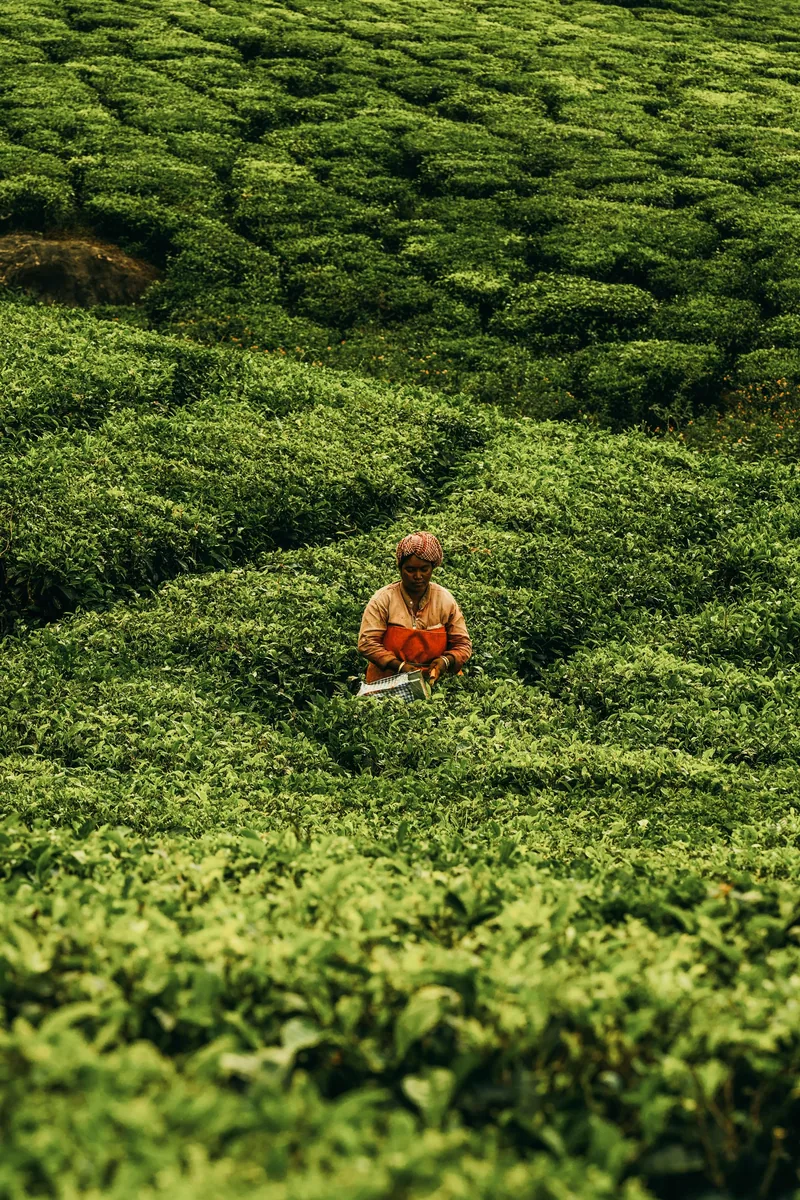
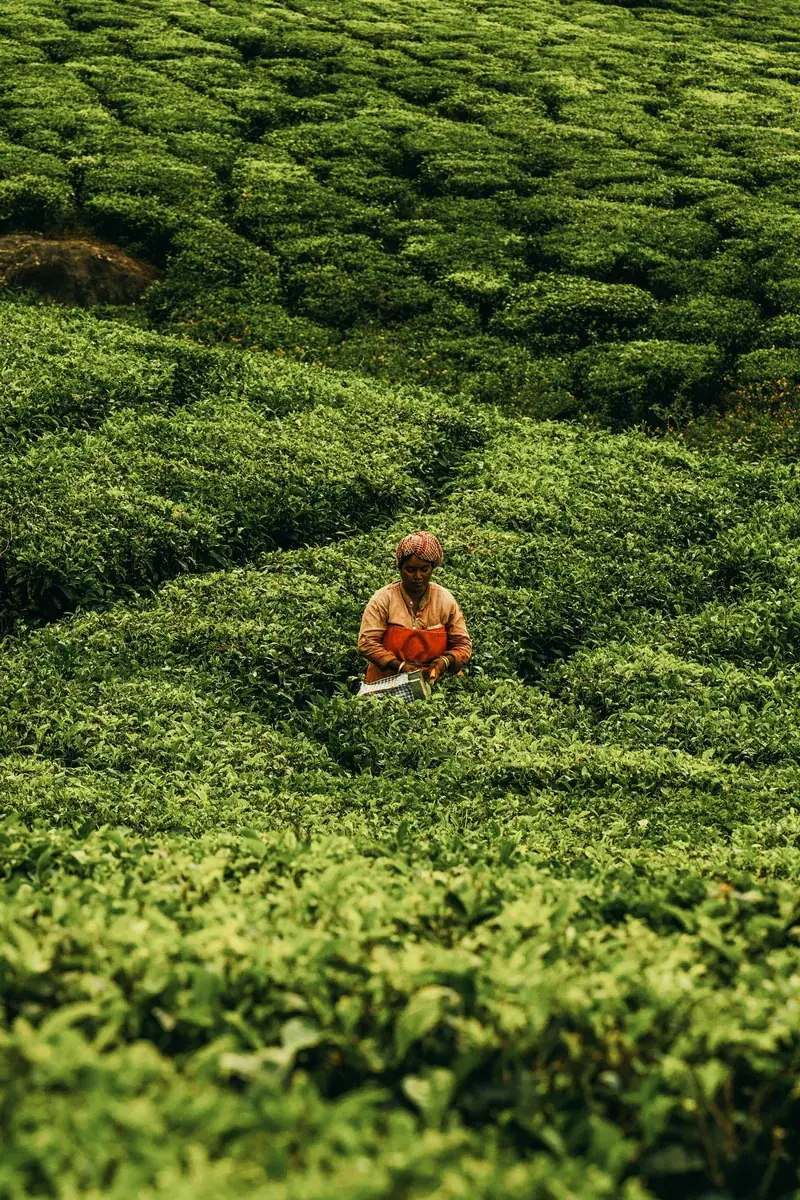
Nimbus: env-configurable warehouse/parcel/flat charge, saved shipment history, failed-delivery alert, delivery date at booking; claims match the pouch (no organic/global), Instagram handle from pouch; remove unused images, compress big ones

diff --git a/templates/base.html b/templates/base.html
@@ -9,7 +9,7 @@
   <!-- SEO Meta Tags -->
   <meta name="description" content="{% block meta_description %}Authentic farm-sourced spices from Heritage Spices: freshly packed Garam Masala, FSSAI licensed, delivered to your door.{% endblock %}" />
   <meta name="author" content="Indian Heritage Spices" />
-  <meta name="keywords" content="Indian Heritage Spices, Best Organic Masala, Farm Sourced Spices, Organic Spices India, Premium Masala, Garam Masala, Goda Masala, Authentic Spices, Pure Masala" />
+  <meta name="keywords" content="Indian Heritage Spices, Garam Masala, Farm Sourced Spices, Natural Masala, Premium Masala, Authentic Spices, Pure Masala, Spices India" />
   <meta name="robots" content="index, follow" />
   {% for token in google_site_verification %}<meta name="google-site-verification" content="{{ token }}" />
   {% endfor %}  <meta name="language" content="English" />
@@ -46,7 +46,7 @@
   "url": "https://www.indianheritagespices.com/",
   "logo": "https://www.indianheritagespices.com/static/images/logo.png",
   "sameAs": [
-    "https://www.instagram.com/heritage.spices.in/"
+    "https://www.instagram.com/indian_heritage_spices/"
   ],
   "address": {
     "@type": "PostalAddress",
@@ -423,8 +423,8 @@
         <p class="mb-1">Rooted in Tradition. Rich in Flavor.</p>
         <p class="small text-muted">FSSAI Lic. No. {{ fssai_license }}</p>
         <div class="social-icons">
-          <a href="https://www.instagram.com/heritage.spices.in/" class="me-2 text-dark social-anim" target="_blank"><i class="fab fa-instagram fa-lg"></i></a>
-          <a href="https://twitter.com/search?q=%23Heritagespices" class="me-2 text-dark social-anim" target="_blank"><i class="fab fa-twitter fa-lg"></i></a>
+          <a href="https://www.instagram.com/indian_heritage_spices/" class="me-2 text-dark social-anim" target="_blank" rel="noopener" aria-label="Instagram"><i class="fab fa-instagram fa-lg"></i></a>
+          <a href="https://wa.me/918999449765" class="me-2 text-dark social-anim" target="_blank" rel="noopener" aria-label="WhatsApp"><i class="fab fa-whatsapp fa-lg"></i></a>
           <a href="mailto:heritage.spices.pvtltd@gmail.com" class="text-dark social-anim"><i class="fas fa-envelope fa-lg"></i></a>
         </div>
         {% if google_review %}

diff --git a/templates/partials/mission_carousel.html b/templates/partials/mission_carousel.html
@@ -30,7 +30,7 @@
         <div class="row align-items-center g-0">
           <div class="col-md-6 p-4 bg-light">
             <h4 class="fw-bold text-success">Empowering Our Farmers</h4>
-            <p class="text-muted">Since 2012, we’ve sourced directly from partner farmers, ensuring ethical practices and fair prices for farmers.</p>
+            <p class="text-muted">We source directly from partner farmers, ensuring ethical practices and fair prices for farmers.</p>
           </div>
           <div class="col-md-6">
             <img src="{{ url_for('static', filename='images/farm-fields.webp') }}" class="img-fluid" alt="Farmland where our spices are grown">
@@ -42,11 +42,11 @@
       <div class="carousel-item">
         <div class="row align-items-center g-0">
           <div class="col-md-6 p-4 bg-light">
-            <h4 class="fw-bold text-success">100% Organic Promise</h4>
-            <p class="text-muted">We use no chemicals or preservatives—just nature’s pure goodness in every pack.</p>
+            <h4 class="fw-bold text-success">Pure &amp; Natural Promise</h4>
+            <p class="text-muted">No gluten, no GMO ingredients, no artificial fillers and no added preservatives—just nature’s goodness in every pack.</p>
           </div>
           <div class="col-md-6">
-            <img src="{{ url_for('static', filename='images/organic.webp') }}" class="img-fluid" alt="Organic Spices" loading="lazy" decoding="async">
+            <img src="{{ url_for('static', filename='images/organic.webp') }}" class="img-fluid" alt="Whole spices in a bowl" loading="lazy" decoding="async">
           </div>
         </div>
       </div>
@@ -56,7 +56,7 @@
         <div class="row align-items-center g-0">
           <div class="col-md-6 p-4 bg-light">
             <h4 class="fw-bold text-success">Quality Assured</h4>
-            <p class="text-muted">Each batch is tested and certified for international standards to ensure purity and taste.</p>
+            <p class="text-muted">Each batch is lab tested to ensure purity and taste.</p>
           </div>
           <div class="col-md-6">
             <img src="{{ url_for('static', filename='images/quality.webp') }}" class="img-fluid" alt="Quality Assurance" loading="lazy" decoding="async">

diff --git a/templates/faq.html b/templates/faq.html
@@ -1,6 +1,6 @@
 {% extends "base.html" %}
 {% block title %}FAQ | Help Center | Heritage Spices{% endblock %}
-{% block meta_description %}Answers about Heritage Spices: organic sourcing, shipping and delivery times, wholesale orders and how to store spices for freshness.{% endblock %}
+{% block meta_description %}Answers about Heritage Spices: ingredients, shipping and delivery times, wholesale orders and how to store spices for freshness.{% endblock %}
 
 {% block content %}
 {% if json_ld %}<script type="application/ld+json">{{ json_ld|tojson }}</script>{% endif %}
@@ -27,12 +27,12 @@
         <div class="accordion-item border-0 mb-3 shadow-sm overflow-hidden">
           <h2 class="accordion-header" id="faqOne">
             <button class="accordion-button fw-semibold" type="button" data-bs-toggle="collapse" data-bs-target="#collapseFaqOne" aria-expanded="true" aria-controls="collapseFaqOne">
-              <i class="fas fa-seedling text-success me-2.5"></i> Are your spices really 100% organic and chemical-free?
+              <i class="fas fa-seedling text-success me-2.5"></i> What is in Heritage Garam Masala, and is it free from additives?
             </button>
           </h2>
           <div id="collapseFaqOne" class="accordion-collapse collapse show" aria-labelledby="faqOne" data-bs-parent="#faqAccordion">
             <div class="accordion-body text-muted" style="line-height: 1.6;">
-              Yes, absolutely! All Heritage Spices products are 100% organic, chemical-free, and natural. We source directly from trusted partner farmers who use traditional organic cultivation methods without harmful chemical pesticides, additives, or synthetic preservatives.
+              Our Garam Masala is a blend of 14 natural spices: black/green cardamom, black stone flower, nutmeg, cinnamon, black pepper, fenugreek seed, coriander seed, clove, black cumin seed, Himalayan pink salt, red chilli, bay leaf, star anise and dry mace. It contains no gluten, no GMO ingredients, no artificial ingredients or fillers and no added preservatives. We are FSSAI licensed (Lic. No. {{ fssai_license }}).
             </div>
           </div>
         </div>

diff --git a/templates/about.html b/templates/about.html
@@ -33,7 +33,7 @@
         <span>Rooted in Tradition</span>
       </h2>
       <p class="lead text-muted" style="line-height: 1.7; font-size: 1.1rem;">
-        Heritage Spices was founded on a simple promise: to bridge the gap between organic spice farmers and families who value purity, aroma, and authenticity.
+        Heritage Spices was founded on a simple promise: to bridge the gap between spice farmers and families who value purity, aroma, and authenticity.
       </p>
       <p class="text-muted" style="line-height: 1.7;">
         By eliminating middlemen, we guarantee fair prices directly to local farming communities. Our whole spice elements and spice blends are processed, ground, and packed under strict hygiene controls, keeping their natural essential oils intact.
@@ -47,7 +47,7 @@
         </li>
         <li class="d-flex align-items-center gap-2 text-dark fw-medium">
           <i class="fas fa-check-circle text-success fs-5"></i>
-          <span>Ethical Sourcing & Fair Trade Practices</span>
+          <span>Direct Sourcing from Partner Farms</span>
         </li>
         <li class="d-flex align-items-center gap-2 text-dark fw-medium">
           <i class="fas fa-check-circle text-success fs-5"></i>
@@ -107,7 +107,7 @@
           </div>
           <h5 class="card-title fw-bold text-success">Our Promise</h5>
           <p class="card-text text-muted small" style="line-height: 1.6;">
-            Zero additives. Zero artificial colors. Just pure, unadulterated spices certified to FSSAI standards with full farm-level traceability.
+            No artificial fillers. No added preservatives. Just pure, unadulterated spices from an FSSAI-licensed kitchen (Lic. No. {{ fssai_license }}).
           </p>
         </div>
       </div>

diff --git a/templates/partials/faq_teaser.html b/templates/partials/faq_teaser.html
@@ -8,12 +8,12 @@
         <div class="accordion-item border-0 mb-3 shadow-sm overflow-hidden">
           <h2 class="accordion-header" id="teaserFaqOne">
             <button class="accordion-button collapsed fw-semibold" type="button" data-bs-toggle="collapse" data-bs-target="#teaserCollapseOne" aria-expanded="false" aria-controls="teaserCollapseOne">
-              <i class="fas fa-seedling text-success me-2"></i> Are your spices really 100% organic and chemical-free?
+              <i class="fas fa-seedling text-success me-2"></i> What is in Heritage Garam Masala, and is it free from additives?
             </button>
           </h2>
           <div id="teaserCollapseOne" class="accordion-collapse collapse" aria-labelledby="teaserFaqOne" data-bs-parent="#faqTeaserAccordion">
             <div class="accordion-body text-muted" style="line-height: 1.6;">
-              Yes, absolutely! All Heritage Spices products are 100% organic, chemical-free, and natural, sourced directly from trusted partner farmers using traditional organic cultivation methods.
+              A blend of 14 natural spices with no gluten, no GMO ingredients, no artificial fillers and no added preservatives.
             </div>
           </div>
         </div>

diff --git a/templates/partials/hero_carousel.html b/templates/partials/hero_carousel.html
@@ -7,7 +7,7 @@
       <img src="{{ url_for('static', filename='images/hero-pouches-range.webp') }}" fetchpriority="high" width="1600" height="893" class="d-block w-100 h-100" style="object-fit: cover; object-position: center;" alt="Heritage Garam Masala 50g and 100g pouches with whole spices">
       <div class="hero-caption text-center text-md-start">
         <h1 class="fw-bold text-warning">Upholding Indian Heritage</h1>
-        <p class="text-light">Bringing 100% organic and authentic spices from partner farms.</p>
+        <p class="text-light">Bringing pure, natural and authentic spices from partner farms.</p>
         <a href="#products" class="btn btn-warning mt-2 shadow">Shop Now</a>
       </div>
     </div>

diff --git a/templates/products.html b/templates/products.html
@@ -13,7 +13,7 @@
       <span class="badge bg-warning text-dark fw-bold mb-2 text-uppercase tracking-wider">Spice up your kitchen</span>
       <h1 class="display-4 fw-bold mb-3">Authentic Farm-Sourced Spices</h1>
       <p class="lead mx-auto" style="max-width: 600px;">
-        100% organic, hand-milled, and sourced directly from trusted local farmers. Purity in every pinch.
+        Natural, hand-milled and sourced directly from trusted partner farmers. Purity in every pinch.
       </p>
     </div>
   </div>

diff --git a/app.py b/app.py
@@ -365,6 +365,16 @@ class CartItem(db.Model):
     product = db.relationship('Product', backref='cart_items')
 
 # --- Spice Order ---
+class ShipmentEvent(db.Model):
+    """One courier status update received from the NimbusPost webhook (the tracking API only returns the latest)."""
+    id = db.Column(db.Integer, primary_key=True)
+    order_id = db.Column(db.Integer, index=True, nullable=False)
+    awb = db.Column(db.String(100))
+    status = db.Column(db.String(200), nullable=False)
+    location = db.Column(db.String(200))
+    event_time = db.Column(db.DateTime, default=datetime.utcnow)
+
+
 class SpiceOrder(db.Model):
     id = db.Column(db.Integer, primary_key=True)
     order_number = db.Column(db.String(50), unique=True, nullable=False)
@@ -3049,7 +3059,7 @@ def calculate_shipping():
         rates = [{
             'courier_id': 'flat',
             'courier_name': 'Standard Flat Rate',
-            'rate': 40,
+            'rate': nimbus_api.SHIPPING_FLAT_INR,
             'estimated_days': '5-7',
             'min_weight': 0.5
         }]
@@ -3104,10 +3114,10 @@ def create_checkout_order():
 
     delivery_mode = get_setting('delivery_mode', 'hybrid')
     if delivery_mode == 'manual':
-        shipping_rate = 40
+        shipping_rate = nimbus_api.SHIPPING_FLAT_INR
     else:
         computed_rates = nimbus_api.get_shipping_rates(pincode, total_weight_kg)
-        shipping_rate = computed_rates[0]['rate'] if computed_rates else 60
+        shipping_rate = computed_rates[0]['rate'] if computed_rates else nimbus_api.SHIPPING_FLAT_INR
 
     # Calculate totals
     subtotal_rupees = sum(int(float(item.product.price)) * item.quantity for item in cart_items)
@@ -3472,7 +3482,15 @@ def track_order(order_id):
     tracking = {'current_status': order.shipping_status, 'history': [], 'estimated_delivery': order.estimated_delivery or 'N/A'}
     if order.awb_number:
         tracking = nimbus_api.track_shipment(order.awb_number)
-    
+    stored = ShipmentEvent.query.filter_by(order_id=order.id).order_by(ShipmentEvent.id.desc()).limit(30).all()
+    if stored:
+        history = [{'status': e.status, 'location': e.location or '',
+                    'date': e.event_time.strftime('%d %b %Y, %I:%M %p') if e.event_time else ''} for e in stored]
+        live = (tracking.get('history') or [None])[0]
+        if live and live.get('status') and live['status'] not in [h['status'] for h in history]:
+            history.insert(0, live)
+        tracking = dict(tracking, history=history)
+
     return render_template('order_tracking.html', order=order, tracking=tracking,
                            user=user, is_logged_in=True)
 
@@ -3925,6 +3943,15 @@ def nimbus_webhook():
         order = SpiceOrder.query.filter_by(awb_number=awb).first()
         new_status = normalize_shipping_status(status)
         # Ignore statuses we don't recognise, and never move a finished order backwards.
+        if order:
+            last = ShipmentEvent.query.filter_by(order_id=order.id).order_by(ShipmentEvent.id.desc()).first()
+            if not last or last.status != str(status)[:200]:
+                db.session.add(ShipmentEvent(order_id=order.id, awb=str(awb)[:100], status=str(status)[:200],
+                                             location=str(pick('location', 'current_location', 'city') or '')[:200]))
+                db.session.commit()
+                if any(w in str(status).lower() for w in ('ndr', 'undeliver', 'not deliver', 'attempt', 'failed', 'rto', 'return')):
+                    send_telegram_notification(f"Delivery problem: order {order.order_number} (AWB {awb}) - {status}. "
+                                               f"Call the customer or check the NimbusPost panel.")
         if order and new_status and order.shipping_status not in ('delivered', 'cancelled'):
             order.shipping_status = new_status
             db.session.commit()
@@ -3933,29 +3960,6 @@ def nimbus_webhook():
 
     return jsonify({'success': True}), 200
 
-
-@app.route('/admin/test-nimbus-login')
-@admin_required
-def test_nimbus_login():
-    import os, requests
-    email = os.getenv('NIMBUS_EMAIL')
-    password = os.getenv('NIMBUS_PASSWORD')
-    if not email or not password:
-        return "NIMBUS_EMAIL or NIMBUS_PASSWORD not set in environment."
-    try:
-        url = 'https://api.nimbuspost.com/v1/users/login'
-        payload = {'email': email, 'password': password}
-        resp = requests.post(url, json=payload, timeout=10)
-        # Don't echo the raw response body -- it can contain a live auth
-        # token. Just confirm whether login succeeded.
-        body = resp.json() if resp.headers.get('content-type', '').startswith('application/json') else {}
-        return jsonify({
-            'status_code': resp.status_code,
-            'login_ok': bool(resp.status_code == 200 and body.get('status')),
-        })
-    except Exception as e:
-        print("Nimbus login test error:", e)
-        return jsonify({'error': 'Request failed, see server logs.'}), 500
 
 # -------------------------
 # Update existing routes

diff --git a/nimbus_api.py b/nimbus_api.py
@@ -13,6 +13,16 @@ WAREHOUSE_CITY = os.getenv('WAREHOUSE_CITY', 'Nagpur')
 WAREHOUSE_STATE = os.getenv('WAREHOUSE_STATE', 'Maharashtra')
 WAREHOUSE_PINCODE = os.getenv('WAREHOUSE_PINCODE', '441222')
 WAREHOUSE_PHONE = os.getenv('WAREHOUSE_PHONE', '')
+# The pickup address id shown in the NimbusPost panel. Falls back to the old name-based guess.
+WAREHOUSE_ID = os.getenv('NIMBUS_WAREHOUSE_ID', '').strip()
+
+# Packed parcel size in cm (measure a real packed order and set these on Render if it differs).
+PARCEL_L = int(os.getenv('NIMBUS_PARCEL_L', '15'))
+PARCEL_W = int(os.getenv('NIMBUS_PARCEL_W', '10'))
+PARCEL_H = int(os.getenv('NIMBUS_PARCEL_H', '5'))
+
+# ONE flat delivery charge used whenever live rates are unavailable (manual mode, API error, no couriers).
+SHIPPING_FLAT_INR = float(os.getenv('SHIPPING_FLAT_INR', '40'))
 
 def _headers():
     return {
@@ -43,9 +53,9 @@ def check_serviceability(delivery_pincode, weight_kg=0.5, payment_mode='prepaid'
             'orderValuePaise': order_value_paise,
             'packages': [{
                 'weight': int(weight_kg * 1000),  # v2 expects grams
-                'length': 15,
-                'width': 10,
-                'height': 5
+                'length': PARCEL_L,
+                'width': PARCEL_W,
+                'height': PARCEL_H
             }]
         }
         
@@ -78,7 +88,7 @@ def check_serviceability(delivery_pincode, weight_kg=0.5, payment_mode='prepaid'
             'available': True,
             'couriers': [{
                 'courier_name': 'Standard Delivery (Fallback)',
-                'rate': 40,
+                'rate': SHIPPING_FLAT_INR,
                 'estimated_delivery': '3-7 days'
             }],
             'message': 'Fallback to Standard Delivery'
@@ -113,7 +123,7 @@ def get_shipping_rates(delivery_pincode, weight_kg=0.5):
         rates = [{
             'courier_id': 'default',
             'courier_name': 'Standard Delivery',
-            'rate': 60,  # Default ₹60 shipping
+            'rate': SHIPPING_FLAT_INR,
             'estimated_days': '5-7',
             'min_weight': 0.5
         }]
@@ -159,9 +169,7 @@ def create_shipment(order_data):
             
             # Determine warehouse ID mapping for v2
             wh_name = order_data.get('pickup_location', WAREHOUSE_NAME)
-            wh_id = 'WH-001' # default
-            if 'Hyderabad' in wh_name:
-                wh_id = 'WH-002'
+            wh_id = WAREHOUSE_ID or ('WH-002' if 'Hyderabad' in wh_name else 'WH-001')
             
             order_payload = {
                 'order_number': order_data['order_number'],
@@ -186,9 +194,9 @@ def create_shipment(order_data):
                     # "220000" against a "32000" (32kg) limit, only explainable if our
                     # previous grams value (220) was being read as 220 kilograms.
                     'weight': order_data.get('weight_kg', 0.5),
-                    'length': 15,
-                    'width': 10,
-                    'height': 5
+                    'length': PARCEL_L,
+                    'width': PARCEL_W,
+                    'height': PARCEL_H
                 }
             }
 
@@ -216,7 +224,14 @@ def create_shipment(order_data):
         
         if book_resp.status_code in [200, 201] and book_data_resp.get('success'):
             shipment = book_data_resp.get('data', {})
+            edd = ''
+            if shipment.get('edd'):
+                try:
+                    edd = datetime.fromisoformat(str(shipment['edd']).replace('Z', '+00:00')).strftime('%d %b %Y')
+                except (ValueError, TypeError):
+                    edd = str(shipment['edd'])
             return {
+                'estimated_delivery': edd,
                 'success': True,
                 'awb_number': shipment.get('awb'),
                 'courier_name': shipment.get('courier_name'),

diff --git a/tests/test_audit_fixes.py b/tests/test_audit_fixes.py
@@ -92,3 +92,62 @@ def test_visit_logging_thread_cleans_up_inside_its_app_context(monkeypatch, caps
         appmod.track_visit(None)
     assert started
     assert 'outside of application context' not in capsys.readouterr().err
+
+
+def test_webhook_keeps_every_status_and_tracking_page_shows_them(client, make_order, monkeypatch):
+    from conftest import login
+    order, _ = make_order()
+    order.awb_number = 'AWB9'; order.shipping_status = 'shipped'
+    appmod.db.session.commit()
+    for st in ('Picked Up', 'In Transit', 'In Transit', 'Out for delivery'):
+        assert _signed(client, {'awb': 'AWB9', 'status': st, 'location': 'Nagpur'}, monkeypatch).status_code == 200
+    rows = appmod.ShipmentEvent.query.order_by(appmod.ShipmentEvent.id).all()
+    assert [r.status for r in rows] == ['Picked Up', 'In Transit', 'Out for delivery']   # repeat not stored twice
+    monkeypatch.setattr(nimbus_api, 'track_shipment', lambda awb: {'success': False, 'history': [], 'current_status': 'Unknown'})
+    login(client, order.user_email)
+    html = client.get(f'/orders/{order.id}/track').get_data(as_text=True)
+    assert 'Picked Up' in html and 'In Transit' in html and 'Out for delivery' in html
+
+
+def test_failed_delivery_alerts_the_owner(client, make_order, monkeypatch):
+    order, _ = make_order()
+    order.awb_number = 'AWB7'; order.shipping_status = 'shipped'
+    appmod.db.session.commit()
+    sent = []
+    monkeypatch.setattr(appmod, 'send_telegram_notification', lambda m: sent.append(m))
+    _signed(client, {'awb': 'AWB7', 'status': 'Undelivered - customer not available'}, monkeypatch)
+    assert sent and 'HS-TEST0001' in sent[0]
+    sent.clear()
+    _signed(client, {'awb': 'AWB7', 'status': 'In Transit'}, monkeypatch)
+    assert not sent
+
+
+def test_one_flat_charge_for_every_fallback(monkeypatch):
+    monkeypatch.setattr(nimbus_api, 'is_configured', lambda: False)
+    rates = nimbus_api.get_shipping_rates('441222', 0.11)
+    assert len(rates) == 1 and rates[0]['rate'] == nimbus_api.SHIPPING_FLAT_INR
+
+
+def test_booking_returns_the_delivery_date(monkeypatch):
+    class R:
+        status_code = 200
+        def __init__(self, body): self.body = body
+        def json(self): return self.body
+
+    def fake_post(url, json=None, headers=None, timeout=None):
+        if url.endswith('/orders'):
+            return R({'success': True, 'data': {'order_id': 'N1'}})
+        return R({'success': True, 'data': {'awb': 'A1', 'courier_name': 'X', 'edd': '2026-10-03T00:00:00Z'}})
+
+    monkeypatch.setattr(nimbus_api, 'is_configured', lambda: True)
+    monkeypatch.setattr(nimbus_api.requests, 'post', fake_post)
+    r = nimbus_api.create_shipment({'order_number': 'HS1', 'items': [], 'weight_kg': 0.1,
+                                    'consignee': {'name': 'A', 'address': 'x', 'city': 'c', 'state': 's',
+                                                  'pincode': '441222', 'phone': '8999449765'}})
+    assert r['success'] and r['estimated_delivery'] == '03 Oct 2026'
+
+
+def test_public_pages_no_longer_claim_organic_or_worldwide(client):
+    for path in ('/', '/products', '/about', '/faq'):
+        html = client.get(path).get_data(as_text=True).lower()
+        assert '100% organic' not in html and 'worldwide' not in html and 'across the globe' not in html, path
